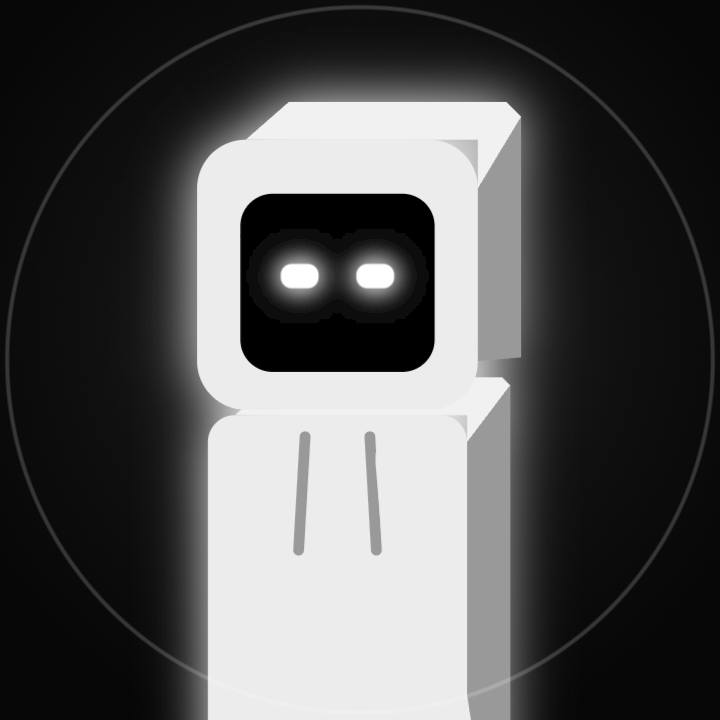
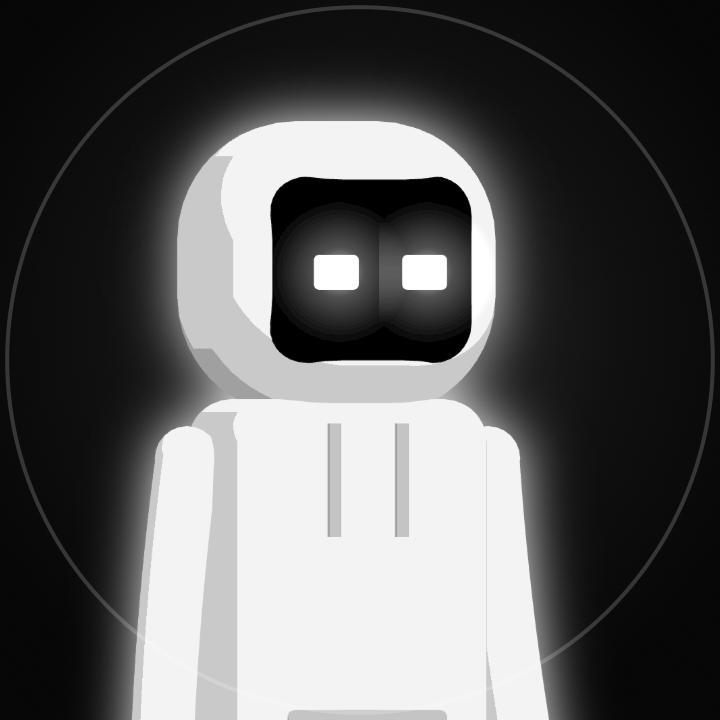
3D figure: arms from the hoodie's sides in front/back views, sharp big figures, brand regenerated
- Facing views moved the arms in front of the chest; they now hang from the body's edge (a pinned IK hand stays put)
- Figure resolution follows its scale up to 2x, and Brand scales the mascot through Figure, so the 3x avatar is sharp
- brand/*.png re-rendered with the 3D mascot

Changed region(s): [[0.1222, 0.0917, 0.825, 1.0]]

diff --git a/remotion/components/Figure3D.tsx b/remotion/components/Figure3D.tsx
@@ -68,18 +68,20 @@ function limb(g: THREE.Group, [a, k, e, toe]: Pt[], z: number, mat: THREE.Materi
 }
 
 // The character from its 2D skeleton (hip at the origin, three's y-up), facing +x in the side view.
-export function rig(j: Joints, view: View, color: string, back: string, opacity = 1, limbsOnly = false) {
+export function rig(j: Joints, view: View, color: string, back: string, opacity = 1, limbsOnly = false, pinned = false) {
   const root = new THREE.Group();
   const near = toon(color, opacity);
   const far = toon(back, opacity);
   const trim = toon(new THREE.Color(color).multiplyScalar(0.62), opacity);
   const side = view === "side";
-  // Side view: arms just outside the body's 100-deep sides, near ones toward the camera. Facing views spread them in x
-  // already, so the arms come forward to lie over the body as the SVG draws them (inside it, only the hands showed).
-  limb(root, j.armL, side ? -56 : 54, far);
+  // Arms hang from the hoodie's sides. Side view: just outside its 100-deep sides, the near one toward the camera.
+  // Facing views: the skeleton's shoulders (26 from the centre) are inside the 100-wide body, so the arm moves out 32
+  // to the body's edge; a pinned hand (IK grip on a bar or rope) stays put and only the shoulder and elbow move.
+  const out = (pts: Pt[], dx: number): Pt[] => (side ? pts : pts.map((p, i) => (pinned && i === 2 ? p : [p[0] + dx, p[1]])));
+  limb(root, out(j.armL, -32), side ? -56 : 0, far);
   limb(root, j.legL, side ? -22 : 0, far);
   limb(root, j.legR, side ? 22 : 0, near);
-  limb(root, j.armR, side ? 56 : 54, near);
+  limb(root, out(j.armR, 32), side ? 56 : 0, near);
   if (limbsOnly) return root;
 
   // Hoodie, in the torso's frame (hip at the origin, up along the torso), with its front pocket and drawstrings.
@@ -148,9 +150,9 @@ export function snap(scene: THREE.Scene, cam: THREE.Camera, w: number, h: number
 }
 
 // The SVG Figure's body as an image covering x, y, w, h in its local units (hip at 0,0, y down). `s` sets resolution.
-export function figure3d(j: Joints, trail: Joints[], view: View, color: string, back: string, s: number): Img {
-  const px = Math.min(2, Math.max(0.6, s * 2)); // pixels per local unit
-  const key = JSON.stringify([j, trail, view, color, back, px.toFixed(2)]);
+export function figure3d(j: Joints, trail: Joints[], view: View, color: string, back: string, s: number, pinned = false): Img {
+  const px = Math.min(4, Math.max(0.6, s * 2)); // pixels per local unit: 2x oversampled, up to a 2x figure (covers, avatar)
+  const key = JSON.stringify([j, trail, view, color, back, px.toFixed(2), pinned]);
   const hit = cache.get(key);
   if (hit) return hit;
 
@@ -164,8 +166,8 @@ export function figure3d(j: Joints, trail: Joints[], view: View, color: string, 
   const scene = new THREE.Scene();
   const world = new THREE.Group();
   world.rotation.y = YAW[view];
-  trail.forEach((g, i) => world.add(rig(g, view, back, back, 0.2 / (i + 1), true)));
-  world.add(rig(j, view, color, back));
+  trail.forEach((g, i) => world.add(rig(g, view, back, back, 0.2 / (i + 1), true, pinned)));
+  world.add(rig(j, view, color, back, 1, false, pinned));
   scene.add(world);
   const cam = new THREE.OrthographicCamera(x, x + w, -y, -(y + h), 1, 4000);
   cam.position.z = 2000;

diff --git a/remotion/Brand.tsx b/remotion/Brand.tsx
@@ -38,8 +38,9 @@ export function Backdrop({ w, h }: { w: number; h: number }) {
   );
 }
 
-// The mascot, front-facing, standing on y=0 at x=0 (unit scale: about 430 px tall).
-const Mascot = ({ pose = STAND }: { pose?: typeof STAND }) => <Figure x={0} ground={0} pose={pose} front />;
+// The mascot, front-facing, feet on `ground` (scale 1: about 430 px tall). Scaled through `s`, not an outer transform,
+// so the 3D figure renders at the size it's shown (sharp at 3x in the avatar).
+const Mascot = ({ x, ground, s = 1, pose = STAND }: { x: number; ground: number; s?: number; pose?: typeof STAND }) => <Figure x={x} ground={ground} s={s} pose={pose} front />;
 
 function Avatar({ size }: { size: number }) {
   const k = size / 800;
@@ -48,7 +49,7 @@ function Avatar({ size }: { size: number }) {
       <Defs />
       <Backdrop w={800} h={800} />
       {/* Head and chest fill the circle crop; legs fall off the bottom. */}
-      <g transform="translate(375 1480) scale(3)"><Mascot /></g>
+      <Mascot x={375} ground={1480} s={3} />
       <circle cx={400} cy={400} r={392} fill="none" stroke="#fff" strokeOpacity={0.18} strokeWidth={4 / k} />
     </svg>
   );
@@ -84,7 +85,7 @@ export function YouTubeBanner() {
       <Backdrop w={W} h={H} />
       <Floor w={W} y={gy} h={H - gy} />
       {/* Everything that matters sits in the 1546x423 centre (x 507-2053, y 508-931). */}
-      <g transform={`translate(${W / 2 - 560} ${gy - 18}) scale(0.95)`}><Mascot /></g>
+      <Mascot x={W / 2 - 560} ground={gy - 18} s={0.95} />
       <Wordmark x={W / 2 - 360} y={H / 2 + 50} size={230} />
     </svg>
   );
@@ -98,7 +99,7 @@ export function FacebookCover() {
       <Backdrop w={W} h={H} />
       <Floor w={W} y={gy} h={H - gy} />
       {/* Bottom-left is covered by the page avatar, and mobile crops the sides: keep it right of centre. */}
-      <g transform={`translate(${W / 2 - 330} ${gy}) scale(0.95)`}><Mascot /></g>
+      <Mascot x={W / 2 - 330} ground={gy} s={0.95} />
       <Wordmark x={W / 2 - 150} y={330} size={190} />
     </svg>
   );

diff --git a/remotion/components/Mono.tsx b/remotion/components/Mono.tsx
@@ -124,7 +124,7 @@ export function Figure({ x, y = 0, ground, air = 0, s = 1, pose, hands, front = 
   const len = Math.hypot(j.sh[0], j.sh[1]) || 1;
   // The body is the 3D rig (remotion/components/Figure3D.tsx), same skeleton and placement; FIGURE_3D=0 in the render
   // env (server/bots/remotion.ts envVariables) brings back the flat SVG drawing below.
-  const img = process.env.FIGURE_3D !== "0" ? figure3d(j, trail.map((tp) => joints(tp, facing, headDown, hands)), front ? "front" : away ? "back" : "side", color, back, s) : null;
+  const img = process.env.FIGURE_3D !== "0" ? figure3d(j, trail.map((tp) => joints(tp, facing, headDown, hands)), front ? "front" : away ? "back" : "side", color, back, s, !!hands) : null;
   return (
     <>
       {ground !== undefined && <ellipse cx={x} cy={ground + 6} rx={70 * s} ry={11 * s} fill="#fff" opacity={0.12 * Math.max(0, 1 - air / 80)} />}
